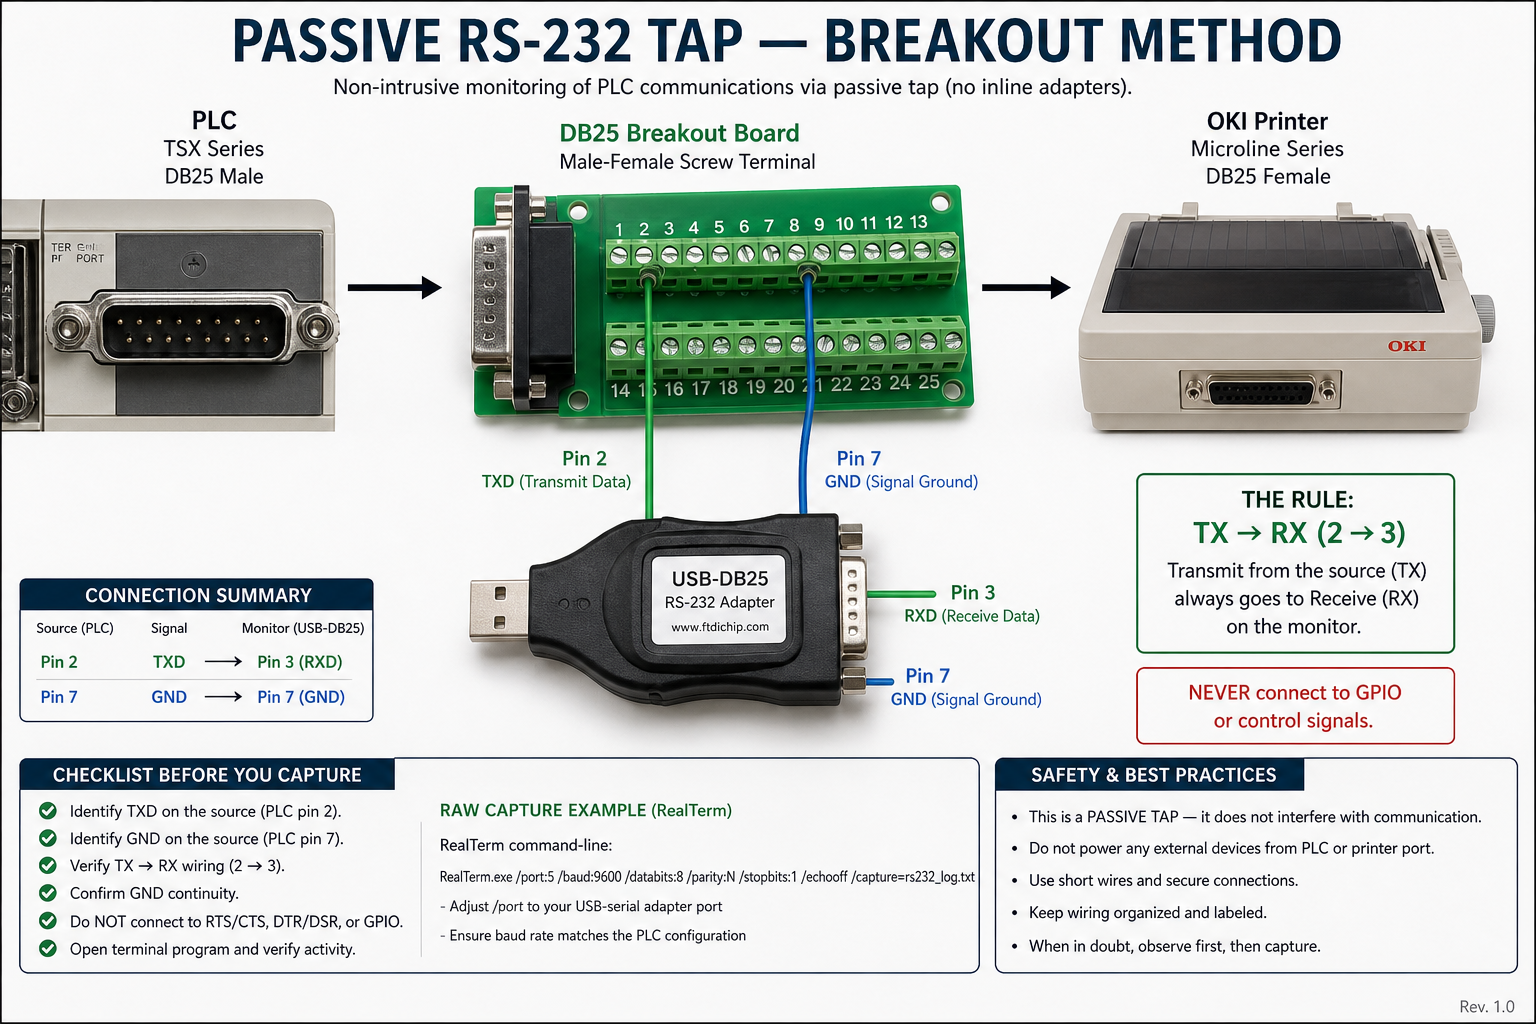
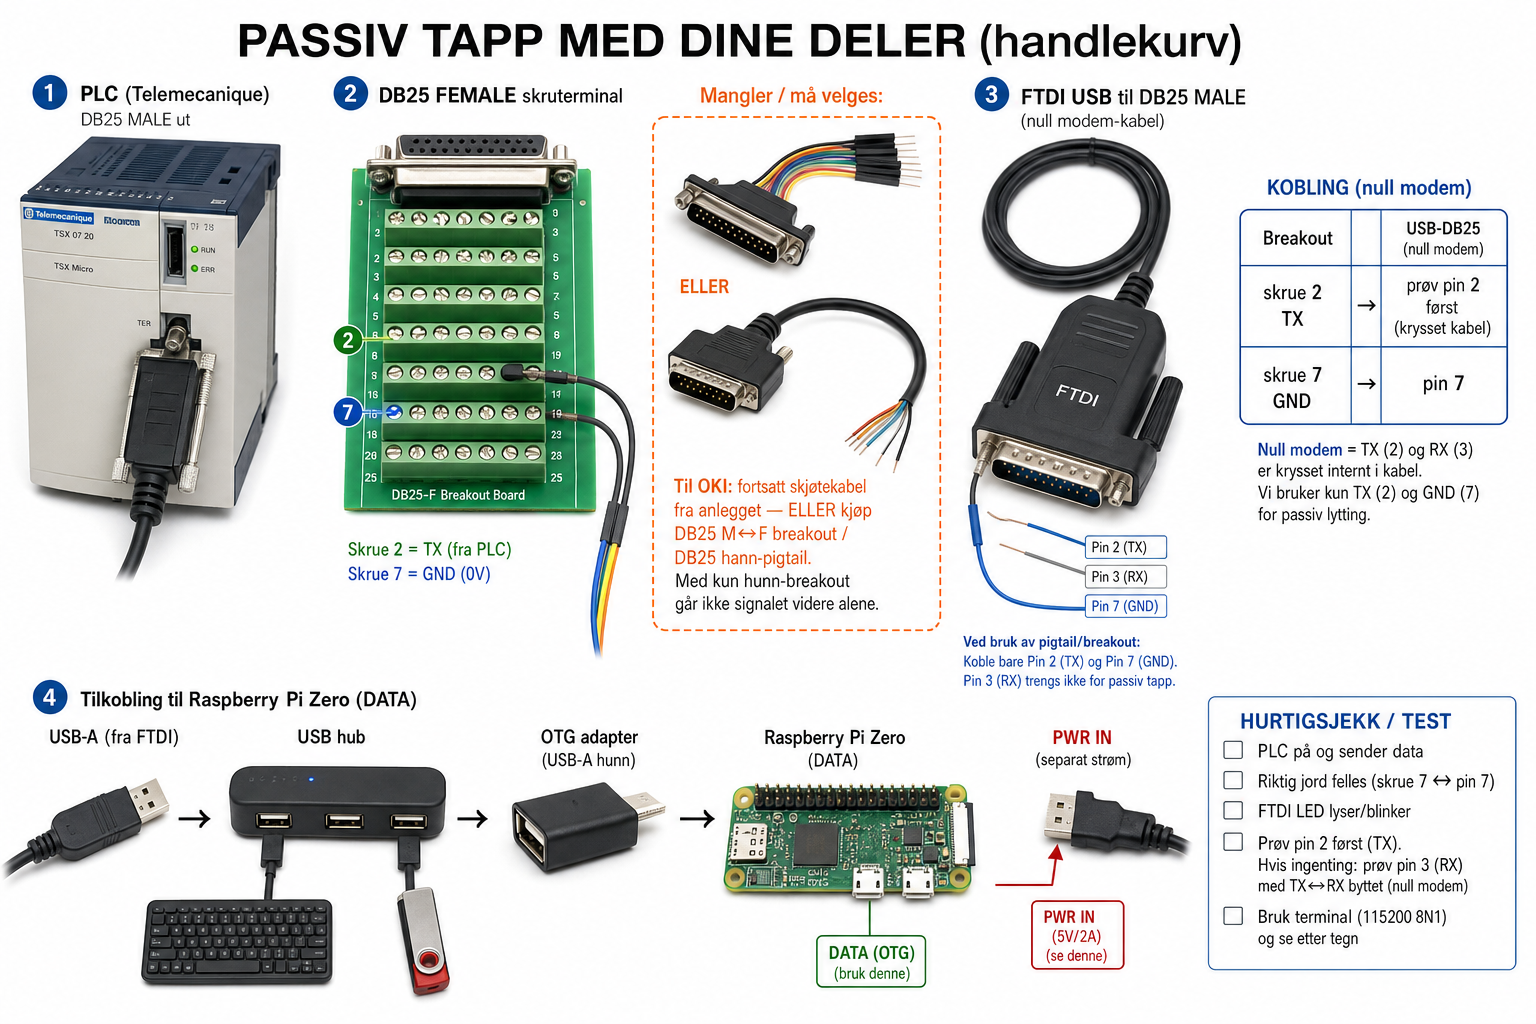
Tegn om etter handlekurv: nullmodem, hunn-breakout, mangler OKI-vei
Inkluderer DuPont/pigtail. Merk at hunn-breakout ikke er pass-through;
nullmodem: prøv 2→2 først, deretter 2→3.

diff --git a/docs/no/wiring.md b/docs/no/wiring.md
@@ -1,80 +1,65 @@
 # Kobling
 
-<img src="img/passiv-rs232-tapp.png" width="100%" alt="PLS DB25 hann → breakout → skriver; skrue 2+7 → USB–DB25 → Pi"/>
+<img src="img/tapp-dine-deler.png" width="100%" alt="Handlekurv: USB–DB25 nullmodem, DuPont, hunn-breakout, pigtail"/>
 
-## Enkel kjede (anbefalt)
+<img src="img/passiv-rs232-tapp.png" width="100%" alt="Passiv tapp med dine deler"/>
 
-1. **PLS DB25 hann** går rett inn i **breakout** (hunn-siden).
-2. Fra breakout **hann** → skjøtekabel → **OKI**.
-3. Fra breakout **skrue 2 (TX)** og **skrue 7 (GND)** → ny **USB–DB25**-adapter (**RX** + **GND**).
-4. USB–DB25 → **USB-hub** → Pi DATA (via OTG-skjøtekabel).
+## Det du kjøper (handlekurv)
 
-Ingen kniv i kabel. Ikke GPIO. Signal → `/dev/ttyUSB0`.
+| # | Del | Rolle |
+|---|-----|--------|
+| 1 | **USB→DB25 hann** (FTDI, **null modem** / krysset) | Lytteadapter på huben → `/dev/ttyUSB0` |
+| 2 | **DuPont F–F** 10 cm | Midlertidig/kort kobling mellom skruer / hoder |
+| 3 | **DB25 hunn-breakout** m/skruer | PLS DB25 **hann** plugges rett inn; tapp på skrue 2 og 7 |
+| 4 | **DB25 hunn-pigtail** → nakne ledere | Alternativ vei til å finne/feste ledere (pin 2/3/7) |
 
-### Pinner — hva som er hva
+## Viktig: det som fortsatt mangler for skriveren
 
-På **anleggs-breakouten** (PLS↔skriver) er skruenummer = DB25-pinne:
+Breakouten i kurven er **bare hunn** — den er **ikke** M↔F pass-through.  
+PLS hann → breakout gir deg skruer, men **signalet går ikke videre til OKI av seg selv**.
 
-| Breakout-skrue | Signal på linja | Betydning |
-|----------------|-----------------|-----------|
-| **2** | TX | Data PLS → skriver (tapp her) |
-| **7** | GND | Signaljord (tapp her) |
-| 3 | RX | Skriver→PLS — **rør ikke** til lytting |
-| øvrige | — | går bare 1:1 gjennom |
+Du trenger fortsatt én av:
 
-På **lytteadapteren** (USB–DB25, typisk DTE som PC-port):
+- eksisterende skjøtekabel / Y som lar skriveren få signal **og** at du tapper, **eller**
+- **DB25 M↔F breakout** (hann+hunn på samme board), **eller**
+- DB25 **hann**-utgang (hann-pigtail / skjøt) fra skruene 1:1 til OKI (alle pinner, ikke bare 2 og 7)
 
-| Adapter-pinne | Signal | Kobles fra breakout |
-|---------------|--------|---------------------|
-| **3** | **RX** (lytter inn) | ← breakout skrue **2** (TX) |
-| **7** | **GND** | ← breakout skrue **7** |
-| 2 | TX ut fra adapter | **koble ikke** (la stå åpen) |
+## Lyttekobling (med null modem)
 
-```text
-ANLEGG (breakout)              LYTTEADAPTER (USB–DB25)
-─────────────────              ───────────────────────
-skrue 2  TX  ────────────────→  pin 3  RX
-skrue 7  GND ───────────────→  pin 7  GND
-```
+På anleggs-breakout (PLS-linja):
 
-**Hvordan inn i lytteadapteren (velg én):**
+| Skrue | Signal |
+|-------|--------|
+| **2** | TX (data PLS→skriver) — tapp |
+| **7** | GND — tapp |
+| 3 | RX andre veien — **ikke** tapp til Pi |
 
-1. **Best:** egen DB25-hunn breakout med skruer. USB–DB25 **hann** plugges inn. Ledning fra anlegg-skrue 2 → lytte-skrue **3**, anlegg-skrue 7 → lytte-skrue **7**.
-2. **DuPont DB25-hunn** på adapter-hannen: bruk ledning merket **3** og **7** mot anlegg 2 og 7.
-3. Ikke GPIO. Ikke lodde i hubben.
+USB–DB25 er merket **null modem** (TX/RX krysset inne i kabelen). Derfor:
 
-TX → RX — aldri TX til TX. Får du null data: prøv å bytte 2↔3 **bare på lytteenden** (noen adaptere er DCE).
+| Prøv | Breakout | → | USB–DB25 hann |
+|------|----------|---|----------------|
+| **A (først)** | skrue **2** (TX) | → | pin **2** |
+| | skrue **7** (GND) | → | pin **7** |
+| **B (hvis null data)** | skrue **2** (TX) | → | pin **3** |
+| | skrue **7** (GND) | → | pin **7** |
 
-## Deler
-
-| Del | Rolle |
-|-----|--------|
-| **DB25 M↔F breakout** m/skruer | Pass-through PLS↔skriver + tapppunkt |
-| **USB–DB25** (ny, til Pi) | RS-232-nivå → USB på huben |
-| Skjøtekabel DB25 | Breakout → OKI |
-| Pi OTG | micro-USB **hann** → USB-A **hunn** |
-| USB-hub | hann inn i OTG; tastatur + penn + USB–DB25 |
-
-Har du allerede StarTech ICUSB232DB25 (DB9 + DB25-adapter), kan den brukes som USB–DB25 — samme rolle.
+Bruk DuPont F–F eller pigtail-ledere inn i skruene. **Ikke GPIO.**
 
 ## USB til Pi
-
-<img src="img/usb-kjede-komplett.png" width="100%" alt="USB-kjede"/>
 
 ```text
 Pi DATA ── OTG (USB-A HUNN) ← hub (USB-A HANN)
                               ├── tastatur
                               ├── minnepenn → /media/usb0
-                              └── USB–DB25 → /dev/ttyUSB0
-                                    ↑
-                         breakout skrue 2+7 (TX→RX, GND)
+                              └── USB→DB25 (null modem) → /dev/ttyUSB0
 ```
 
-PWR IN (hjørne): 5V / ≥2,5 A. Ikke DATA-porten.
+PWR IN (hjørne): 5V / ≥2,5 A.
 
-## Mer detalj
+Test:
 
-- Steg A/B (breakout vs WAGO): [tapp-steg-for-steg.png](img/tapp-steg-for-steg.png)
-- Breakout-fokus: [tapp-anbefalt-breakout.png](img/tapp-anbefalt-breakout.png)
+```bash
+python3 read_package.py --raw-capture --port /dev/ttyUSB0
+```
 
 *English: [docs/en/wiring.md](../en/wiring.md)*

diff --git a/docs/no/HANDOFF-CLAUDE.md b/docs/no/HANDOFF-CLAUDE.md
@@ -170,7 +170,10 @@ Hovedbildene ligger også inne i §2. Her er full liste med filsti:
 
 ### Fasit (2026-07-25) — foto-realistisk stil
 
-Claude/Gemini-innhold (breakout, **2→3 / 7→7**) tegnet om med nesten-ekte komponentfoto.
+**Handlekurv (faktiske deler):** USB→DB25 hann *null modem*, DuPont F–F, DB25 **hunn**-breakout, DB25 hunn-pigtail.
+Se `img/tapp-dine-deler.png` og `img/passiv-rs232-tapp.png`.
+Hunn-breakout er **ikke** M↔F — mangler fortsatt vei til OKI (M↔F-breakout eller hann-ut).
+Null modem: prøv først breakout 2→ adapter **2**, ellers 2→**3**; GND 7→7.
 
 **passiv-rs232-tapp.png** — hovedplakat breakout + systemarkitektur  
 
